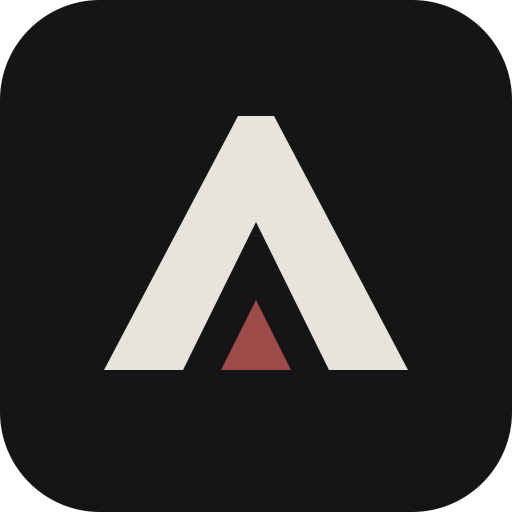
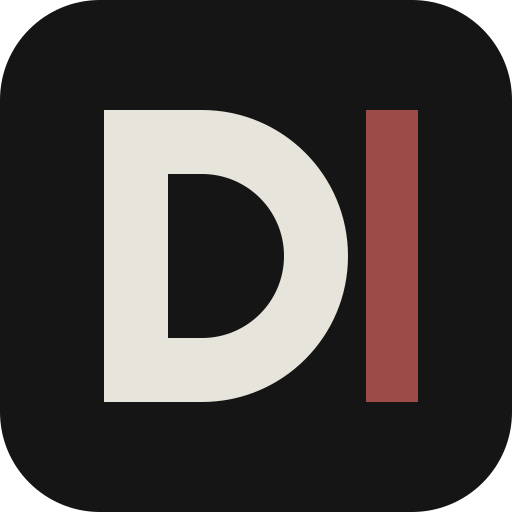
Complete Dyad branding and compact the workout interface
Use Dyad identifiers and a new mark. Reduce dashboard banners, card padding, and logging headers while preserving touch targets. Verify mobile start-button visibility and offline logging.

Changed region(s): [[0.1875, 0.1875, 0.8438, 0.8125]]

diff --git a/src/compact.css b/src/compact.css
@@ -1,0 +1,6 @@
+/* Compact layout: preserve readable inputs and 44px touch targets. */
+.sidebar{width:200px;min-width:200px;padding:26px 15px 16px}.workspace{margin-left:200px}.brand>span{font-size:23px;letter-spacing:3px}.brand small{font-size:7px}.nav-caption{margin-top:36px}.sidebar .manifesto,.sidebar .edition{display:none}.sidebar-bottom{padding-top:24px}.sidebar-bottom .nav-item{padding-top:18px}.topbar{height:58px;padding:0 28px}.workspace main{padding:23px 28px 0;max-width:1240px}.page-heading{margin-bottom:18px}.page-heading h1{font-size:29px;letter-spacing:-1px}.page-heading .eyebrow{margin-bottom:8px;font-size:8px}.page-heading p{margin-top:6px;font-size:11px}.outline-stamp{display:none}.week-strip{margin-bottom:16px}.day-button{padding:10px 4px;gap:5px}.day-button strong{font-size:20px}.day-button small{font-size:7px}.day-button>span{font-size:8px}.dashboard-grid{gap:20px;grid-template-columns:minmax(0,1fr) 235px}.hero{min-height:0;margin-bottom:16px}.hero-content{padding:17px 21px}.hero .eyebrow{font-size:7px;margin:0 0 9px}.hero h2{font-size:38px;margin:0;line-height:1;letter-spacing:0}.hero h2 br{display:none}.hero h2 span{margin-left:9px}.hero p{font-size:10px;margin:7px 0 0}.hero-footer{padding:10px 0 0;margin:10px 0 0;font-size:7px}.hero-cross{font-size:15px}.hero-graphic>span{font-size:165px;top:-35px;right:10px}.hero .orbit{width:190px;height:190px;top:-45px}.hero .mountain{width:145px;height:145px;bottom:-90px}.panel{padding:18px}.panel-heading{margin-bottom:14px}.panel-heading .eyebrow{margin-bottom:7px}.panel-heading h3{font-size:17px}.segment button{padding:8px;min-height:36px}.preview-exercises{margin:2px 0 14px}.preview-exercise{padding:12px 0;gap:11px}.preview-exercise small{margin-top:4px}.preview-exercise h4{font-size:13px}.start-button{padding:12px 15px;min-height:46px}.session-meta{margin-top:11px;font-size:9px}.right-column{gap:15px}.weekly{padding:18px}.weekly-total{font-size:44px;margin:13px 0 17px;gap:12px}.weekly-total>span{font-size:10px}.activity-bars{margin-bottom:13px;gap:8px}.activity-bars .bar{height:38px}.activity-bars small{margin-top:6px}.weekly .stat-line{padding:10px 0}.note-card{display:none}.device-note{padding:2px}.page-footer{padding:15px 0;margin-top:25px}.is-logging .page-heading{display:none}.session-toolbar{margin-bottom:13px}.live-heading h2{font-size:22px}.live-heading .eyebrow{margin-bottom:6px}.session-progress{margin:14px 0}.logging-list{gap:15px}.exercise-heading{padding:16px 19px;gap:12px}.exercise-heading h3{font-size:16px}.exercise-heading p{margin-top:5px}.set-table{padding:0 19px}.set-head{padding:5px 0 9px;font-size:9px;letter-spacing:.5px}.set-row{min-height:57px;padding:6px 0}.set-row input{padding:10px 5px;min-height:44px}.exercise-insight{padding:10px 19px;margin-top:10px;font-size:10px}.finish-bar{padding:14px 18px;margin-top:17px}.logging-help{margin-top:12px}.timer-popover{width:270px;padding:13px 17px;top:68px}.timer-top .eyebrow{font-size:8px}.timer-digits{font-size:42px;margin:2px 0 10px;line-height:1}.timer-popover>p{display:none}.timer-buttons .primary,.timer-buttons .secondary{padding:9px 12px}.history-summary{padding:17px 19px}.history-summary h3{font-size:15px}.history-summary p{font-size:11px}.date-tile{min-width:49px;padding:5px}.date-tile b{font-size:26px}.progress-stats{gap:15px;margin-bottom:18px}.stat strong{font-size:40px;margin-top:12px}.chart-empty{height:180px}.chart-panel .progress-chart{max-height:250px}.pr-card>div{margin:10px 0}.pr-icon{margin-bottom:12px}.section-heading{margin:21px 0 15px}.settings-grid{gap:18px}.settings-grid h3{margin:10px 0 14px}.settings-grid p{font-size:12px}.setting-row{padding:14px 0}.routine-intro{margin-bottom:18px}.empty{padding:36px 22px}.empty-icon{height:48px;width:48px;margin-bottom:20px}
+@media(min-width:1500px){.workspace main{padding-top:26px}.hero{min-height:0}.hero h2{font-size:40px}.hero-footer{margin-top:10px}.dashboard-grid{grid-template-columns:minmax(0,1fr) 255px}}
+@media(max-width:960px){.sidebar{width:175px;min-width:175px}.workspace{margin-left:175px}.brand>span{font-size:21px}.brand small{font-size:6px}.workspace main{padding-left:22px;padding-right:22px}.dashboard-grid{grid-template-columns:minmax(0,1fr)}.right-column{grid-template-columns:minmax(0,1fr) minmax(0,1fr);align-items:start}.device-note{grid-column:auto;padding:15px 5px}.weekly-total{margin:12px 0}.routine-grid{gap:15px}.timer-popover{top:68px}}
+@media(max-width:700px){.workspace{margin-left:0}.workspace .topbar{height:52px;padding:0 17px}.workspace main{padding:17px 16px 88px}.page-heading{margin-bottom:14px}.page-heading h1{font-size:24px;letter-spacing:-.75px}.page-heading .eyebrow{font-size:8px;margin-bottom:6px;letter-spacing:1px}.page-heading>div>p{display:none}.week-strip{margin-bottom:13px}.day-button{min-height:56px;padding:9px 2px;gap:5px}.day-button small{font-size:7px;letter-spacing:.5px}.day-button strong{font-size:19px;line-height:22px}.day-button>span{display:none}.day-button.rest-day strong{font-size:16px;line-height:22px}.hero{margin-bottom:13px}.hero-content{padding:14px 17px}.hero .eyebrow{font-size:7px;letter-spacing:1px;margin-bottom:8px}.hero h2{font-size:33px}.hero h2 span{margin-left:7px}.hero p{font-size:10px;margin-top:7px}.hero-footer{padding-top:8px;margin-top:9px;font-size:6px}.hero-graphic>span{font-size:135px;top:-19px}.hero .orbit{width:150px;height:150px;right:-10px;top:-20px}.hero .mountain{right:0;width:100px;height:100px;bottom:-60px}.panel{padding:16px}.panel-heading{margin-bottom:12px}.panel-heading .eyebrow{font-size:8px;margin-bottom:5px;letter-spacing:1px}.panel-heading h3{font-size:16px}.segment button{min-height:36px;font-size:12px;padding:8px}.preview-exercise{padding:11px 0;gap:10px}.preview-exercise h4{font-size:13px}.preview-exercise small{font-size:9px;line-height:1.5}.exercise-number{min-width:26px;width:26px;height:26px;font-size:10px}.rep-prescription{font-size:12px}.session-meta{font-size:8px;margin-top:10px}.session-meta>span:last-child{display:none}.right-column{gap:14px}.weekly{padding:16px}.weekly .eyebrow{font-size:8px}.weekly-total{font-size:38px;gap:9px;margin:12px 0}.weekly-total>span{font-size:9px}.activity-bars{gap:6px;margin-bottom:12px}.activity-bars .bar{height:32px}.device-note{padding:14px 3px}.device-note b{font-size:10px}.device-note p{font-size:10px}.session-toolbar{margin-bottom:10px}.session-toolbar .text-button{font-size:10px;min-height:30px}.session-toolbar>span:last-child{font-size:10px}.live-heading{align-items:center;gap:12px}.live-heading .eyebrow{font-size:8px}.live-heading h2{font-size:20px;line-height:1.3}.live-heading h2 span{display:inline;font-size:14px;margin-left:5px}.live-heading>.secondary{min-height:40px;font-size:10px;padding:10px}.session-progress{margin:13px 0}.exercise-heading{padding:14px 13px;gap:9px}.exercise-heading h3{font-size:15px}.exercise-heading p{font-size:10px;line-height:1.5;margin-top:4px}.set-table{padding:0 11px}.set-head{font-size:8px;letter-spacing:0;padding:4px 0 8px}.set-row{min-height:55px;padding:5px 0;gap:6px}.set-row input{font-size:16px;padding:9px 2px;min-height:44px}.log-button{height:44px}.previous-value{font-size:10px}.exercise-insight{padding:10px 13px;margin-top:8px;font-size:9px}.finish-bar{padding:13px 15px}.timer-popover{top:auto;bottom:calc(82px + env(safe-area-inset-bottom));right:13px;width:245px;padding:11px 15px}.timer-digits{font-size:38px;margin:0 0 8px}.timer-top .icon-button{height:28px;width:28px}.timer-buttons .primary,.timer-buttons .secondary{min-height:44px;font-size:11px}.toast{font-size:11px}.settings-grid .panel{padding:18px}.routine-intro{padding:17px;gap:12px}.routine-grid .panel{padding:18px}.pr-grid{gap:12px}.pr-card h3{font-size:12px}.progress-stats{gap:9px}.stat{padding:14px 11px}.stat .eyebrow{font-size:7px}.stat strong{font-size:34px;margin-top:10px}.history-summary{padding:15px;gap:12px}.history-summary .eyebrow{font-size:8px}.history-summary p{font-size:10px}.history-details{padding:2px 15px 15px}.page-footer{margin-top:22px;padding:13px 0}.empty{padding:30px 19px}.modal{padding:27px 19px}.install-steps{margin-top:17px}}
+@media(max-width:360px){.workspace main{padding-left:13px;padding-right:13px}.hero h2{font-size:29px}.hero .eyebrow{font-size:6px}.hero-footer{letter-spacing:.5px}.set-row{gap:5px}.preview-exercise h4{font-size:12px}.preview-exercise small{font-size:9px}.rep-prescription{font-size:11px}.live-heading h2 span{display:block;margin-left:0}.device-note{padding:12px 0}.device-note p{font-size:9px}}

diff --git a/src/App.tsx b/src/App.tsx
@@ -6,7 +6,7 @@ type Page='train'|'history'|'progress'|'routine'|'settings';
 type InstallEvent=Event&{prompt:()=>Promise<void>;userChoice:Promise<{outcome:string}>};
 const paths:Record<string,ReactNode>={train:<><path d="M5 8v8m3-10v12m8-12v12m3-10v8M8 12h8"/></>,history:<><path d="M4 5v5h5M4 10a8 8 0 1 1 1 8M12 8v5l3 2"/></>,progress:<><path d="M4 19h16M6 15l4-5 4 3 5-8"/><path d="M15 5h4v4"/></>,routine:<><rect x="5" y="4" width="14" height="17" rx="2"/><path d="M9 4V2m6 2V2M9 9h6m-6 4h6m-6 4h4"/></>,settings:<><path d="m12 3 2 3 4-1 1 4 3 3-3 3-1 4-4-1-2 3-2-3-4 1-1-4-3-3 3-3 1-4 4 1z"/><circle cx="12" cy="12" r="3"/></>,arrow:<path d="M4 12h15m-5-5 5 5-5 5"/>,check:<path d="m5 12 4 4L19 6"/>,timer:<><circle cx="12" cy="13" r="8"/><path d="M12 9v4l3 2M9 2h6"/></>,close:<path d="m6 6 12 12M6 18 18 6"/>,download:<><path d="M12 3v12m-5-5 5 5 5-5M5 17v4h14v-4"/></>,cup:<><path d="M7 3h10v6a5 5 0 0 1-10 0zM7 5H3v3a4 4 0 0 0 5 4m9-7h4v3a4 4 0 0 1-5 4M12 14v6m-4 1h8"/></>,plus:<path d="M12 5v14M5 12h14"/>};
 function Icon({name,size=20}:{name:string;size?:number}){return <svg width={size} height={size} viewBox="0 0 24 24" fill="none" stroke="currentColor" strokeWidth="1.5" strokeLinecap="round" strokeLinejoin="round" aria-hidden="true">{paths[name]||paths.arrow}</svg>}
-function Mark(){return <svg viewBox="0 0 40 40" width="34" height="34" aria-hidden="true"><path d="M3 33 18 5h4l15 28H28L20 17l-8 16z" fill="currentColor"/><path d="m16 33 4-8 4 8z" fill="#a45450"/></svg>}
+function Mark(){return <svg viewBox="0 0 40 40" width="34" height="34" aria-hidden="true"><path d="M5 6h10a14 14 0 0 1 0 28H5V6zm6 6v16h4a8 8 0 0 0 0-16z" fill="currentColor"/><path d="M29 6h6v28h-6z" fill="#a45450"/></svg>}
 const dateLabel=(v:string)=>new Date(v).toLocaleDateString(undefined,{month:'short',day:'numeric'});
 const num=(n:number)=>new Intl.NumberFormat(undefined,{maximumFractionDigits:1}).format(n);
 const sameDate=(s:Session)=>new Date(s.completedAt||s.startedAt).toDateString()===new Date().toDateString();
@@ -20,7 +20,7 @@ export default function App(){
  const [timerOpen,setTimerOpen]=useState(false),[metric,setMetric]=useState('squat'),[expanded,setExpanded]=useState<string|null>(null);
  const fileRef=useRef<HTMLInputElement>(null),timerNotified=useRef(false);
  useEffect(()=>{let disposed=false;let release:()=>void=()=>{};async function init(){try{const value=await load();if(!disposed){ref.current=value;setState(value);}}catch(e){if(!disposed)setLoadError(String(e));}}
- const kickoff=setTimeout(()=>{if(navigator.locks){navigator.locks.request('ascend-writer',{mode:'exclusive',ifAvailable:true},async lock=>{if(!lock){if(!disposed)setLocked(true);return;}await init();await new Promise<void>(resolve=>{release=resolve;if(disposed)resolve();});}).catch(e=>{if(!disposed)setLoadError(String(e));});}else void init();},0);
+ const kickoff=setTimeout(()=>{if(navigator.locks){navigator.locks.request('dyad-writer',{mode:'exclusive',ifAvailable:true},async lock=>{if(!lock){if(!disposed)setLocked(true);return;}await init();await new Promise<void>(resolve=>{release=resolve;if(disposed)resolve();});}).catch(e=>{if(!disposed)setLoadError(String(e));});}else void init();},0);
  return()=>{disposed=true;clearTimeout(kickoff);release();};},[]);
  useEffect(()=>{const tick=window.setInterval(()=>setNow(Date.now()),500);const on=()=>setOnline(navigator.onLine);const before=(e:Event)=>{e.preventDefault();setInstall(e as InstallEvent);};window.addEventListener('online',on);window.addEventListener('offline',on);window.addEventListener('beforeinstallprompt',before);return()=>{clearInterval(tick);window.removeEventListener('online',on);window.removeEventListener('offline',on);window.removeEventListener('beforeinstallprompt',before);};},[]);
  useEffect(()=>{if(toast){const t=setTimeout(()=>setToast(''),4500);return()=>clearTimeout(t);}},[toast]);
@@ -48,7 +48,7 @@ export default function App(){
  function editRoutine(){setModal(<RoutineEditor day={day} onClose={()=>setModal(null)} onSave={next=>{change(s=>({...s,routine:s.routine.map(d=>d.id===next.id?next:d)}));setModal(null);notify('Routine updated. Active and past sessions keep their original exercises.');}}/>);}
  return <div className="app-shell">
   <aside className="sidebar"><a className="brand" href="#" onClick={e=>{e.preventDefault();setPage('train');}}><Mark/><span>DYAD<small>TRAINING JOURNAL</small></span></a><div className="nav-caption">YOUR PRACTICE</div><nav>{navItems.map(n=><button key={n.id} className={page===n.id?'nav-item selected':'nav-item'} onClick={()=>setPage(n.id)}><Icon name={n.id}/><span>{n.label}</span>{n.id==='train'&&<span className="nav-dot"/>}</button>)}</nav><div className="sidebar-bottom"><div className="manifesto">THE WORK<br/>IS THE WAY.</div><div className="edition">EST. TODAY &nbsp; / &nbsp; VOL. 01</div><button className={'nav-item '+(page==='settings'?'selected':'')} onClick={()=>setPage('settings')}><Icon name="settings"/><span>Settings & data</span></button><span className="local-note"><i/>{online?'LOCAL-FIRST. ALWAYS YOURS.':'OFFLINE. KEEP TRAINING.'}</span></div></aside>
-  <div className="workspace"><header className="topbar"><span className="breadcrumb">YOUR JOURNAL <span>/</span> {page==='train'?'TRAINING':page.toUpperCase()}</span><span className={'save-state '+(saveError?'error':'')} role="status"><i/>{saveStatus}{saveError&&<button onClick={()=>change(s=>({...s}))}>Retry</button>}</span><button className="timer-trigger" onClick={()=>setTimerOpen(!timerOpen)} aria-label="Open rest timer"><Icon name="timer"/>{state.timerEnd?time:'Rest timer'}</button></header>
+  <div className={'workspace '+(active&&page==='train'?'is-logging':'')}><header className="topbar"><span className="breadcrumb">YOUR JOURNAL <span>/</span> {page==='train'?'TRAINING':page.toUpperCase()}</span><span className={'save-state '+(saveError?'error':'')} role="status"><i/>{saveStatus}{saveError&&<button onClick={()=>change(s=>({...s}))}>Retry</button>}</span><button className="timer-trigger" onClick={()=>setTimerOpen(!timerOpen)} aria-label="Open rest timer"><Icon name="timer"/>{state.timerEnd?time:'Rest timer'}</button></header>
   <main>
    <div className="page-heading"><div><div className="eyebrow">{new Date().toLocaleDateString(undefined,{weekday:'long',month:'long',day:'numeric'}).toUpperCase()}</div><h1>{page==='train'?(active?'Make it count.':'Show up. Build up.'):page==='history'?'The work, recorded.':page==='progress'?'Proof of practice.':page==='routine'?'Built on consistency.':'Your training space.'}</h1><p>{page==='train'?'Two sessions. One purpose. A little stronger, every day.':page==='history'?'Every session has a place here.':page==='progress'?'Small improvements. A longer view.':page==='routine'?'Six days of intent. One day to recover.':'Local by design. Yours to keep.'}</p></div><span className="outline-stamp">A / P<br/><small>6 DAY SPLIT</small></span></div>
    {saveError&&<div className="warning" role="alert">Changes are only in memory. Retry saving or <button onClick={exportData}>export your backup</button> before closing.</div>}

diff --git a/src/storage.test.ts b/src/storage.test.ts
@@ -3,6 +3,6 @@ import {openDB} from 'idb';
 import {it,expect} from 'vitest';
 import {load,save} from './storage';
 import {initialState,startSession} from './domain';
-it('updates an existing journal to three-minute rest once without losing logs or future preferences',async()=>{const db=await openDB('ascend-training',1,{upgrade(db){db.createObjectStore('state');}});const old=initialState();old.restSeconds=120;const session=startSession(old,old.routine[0],'upper');session.entries[0].sets[0]={weight:'60',reps:'8',rir:'2',done:true};old.sessions.push(session);await db.put('state',old,'main');const migrated=await load();expect(migrated.restSeconds).toBe(180);expect(migrated.sessions).toEqual(old.sessions);migrated.restSeconds=90;await save(migrated);expect((await load()).restSeconds).toBe(90);await save(initialState());db.close();});
+it('updates an existing journal to three-minute rest once without losing logs or future preferences',async()=>{const db=await openDB('dyad-training',1,{upgrade(db){db.createObjectStore('state');}});const old=initialState();old.restSeconds=120;const session=startSession(old,old.routine[0],'upper');session.entries[0].sets[0]={weight:'60',reps:'8',rir:'2',done:true};old.sessions.push(session);await db.put('state',old,'main');const migrated=await load();expect(migrated.restSeconds).toBe(180);expect(migrated.sessions).toEqual(old.sessions);migrated.restSeconds=90;await save(migrated);expect((await load()).restSeconds).toBe(90);await save(initialState());db.close();});
 it('initializes and atomically persists draft sets, settings and routine edits',async()=>{expect((await load()).sessions).toEqual([]);const s=initialState(),session=startSession(s,s.routine[0],'lower');session.entries[0].sets[0]={weight:'80',reps:'5',rir:'2',done:true};s.sessions.push(session);s.restSeconds=180;s.routine[0].name='My day';await save(s);const restored=await load();expect(restored).toEqual(s);});
 it('commits queued versions in order without losing the latest log',async()=>{const a=initialState();a.restSeconds=60;const b=structuredClone(a);b.restSeconds=90;await Promise.all([save(a),save(b)]);expect((await load()).restSeconds).toBe(90);});

diff --git a/src/storage.ts b/src/storage.ts
@@ -1,7 +1,7 @@
 import { openDB, type IDBPDatabase } from 'idb';
 import { initialState, validateState, type State } from './domain';
 let dbPromise:Promise<IDBPDatabase>|undefined;
-function db(){return dbPromise??=openDB('ascend-training',1,{upgrade(db){db.createObjectStore('state');},blocking(){location.reload();}});}
+function db(){return dbPromise??=openDB('dyad-training',1,{upgrade(db){db.createObjectStore('state');},blocking(){location.reload();}});}
 export async function load():Promise<State>{
  const tx=(await db()).transaction('state','readwrite');
  const stored=await tx.store.get('main');

diff --git a/src/main.tsx b/src/main.tsx
@@ -2,5 +2,6 @@ import React from 'react';
 import { createRoot } from 'react-dom/client';
 import App from './App';
 import './style.css';
+import './compact.css';
 createRoot(document.getElementById('root')!).render(<React.StrictMode><App/></React.StrictMode>);
 if('serviceWorker' in navigator&&import.meta.env?.PROD)window.addEventListener('load',()=>{navigator.serviceWorker.register('/sw.js').catch(console.error);});
